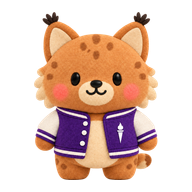
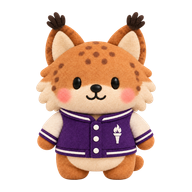
Redraw the NYU bobcat from the closed-jacket figure, with the torch in place of the N

Changed region(s): [[0.1562, 0.0625, 0.8438, 0.9375]]

diff --git a/public/demo/animal-tests/0-picked/README.md b/public/demo/animal-tests/0-picked/README.md
@@ -8,7 +8,7 @@ Last worked on 2026-11-18. Stopped on purpose by the founder; do not draw or bui
 |---|---|---|---|
 | `cornell-bear.png` | Cornell | red knitted scarf, white C | `cornell-bear/…round-4-all-brown-4.png` |
 | `columbia-lion.png` | Columbia | light blue knitted sweater, small white crown | `columbia-lion/…sweater-crown-4.png` |
-| `nyu-bobcat.png` | NYU | violet varsity jacket, white torch | `nyu-bobcat/…jacket-torch-2.png` |
+| `nyu-bobcat.png` | NYU | closed violet varsity jacket, white torch | `nyu-bobcat/…jacket-n1-torch-4.png` (redrawn from `…jacket-n-1.png`; before that `…jacket-torch-2.png`) |
 | `baruch-bearcat.png` | CUNY Baruch | royal blue knitted sweater, white B | `baruch-bearcat/…sweater-b-3.png` |
 | `brooklyn-bulldog.png` | CUNY Brooklyn | maroon cap, gold BC, maroon collar | `brooklyn-bulldog/…cap-bc-3.png` |
 
